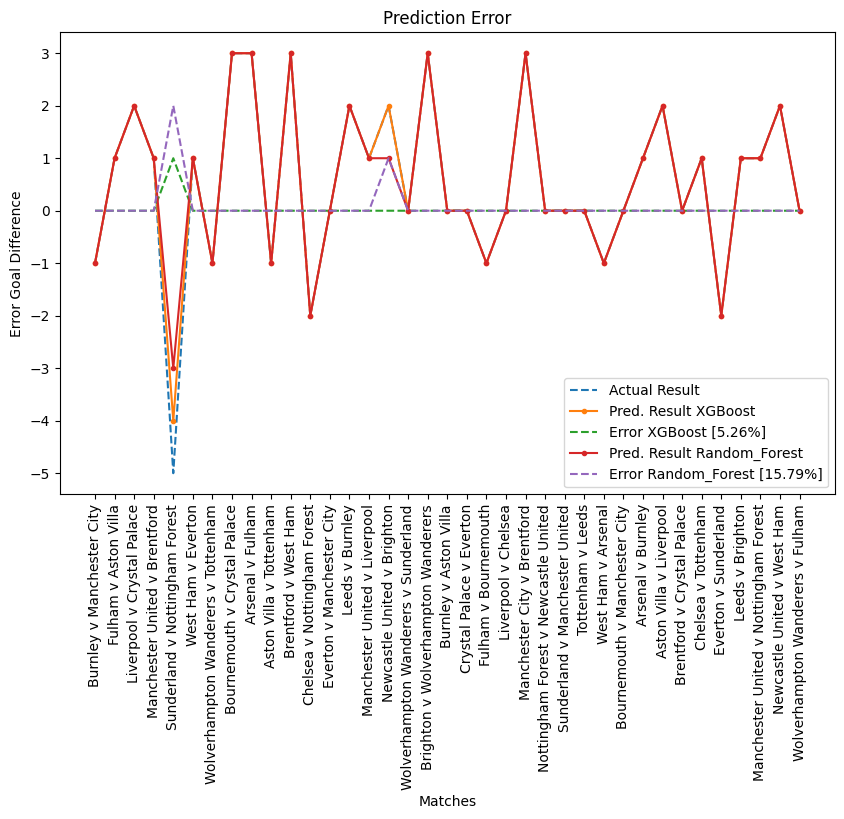
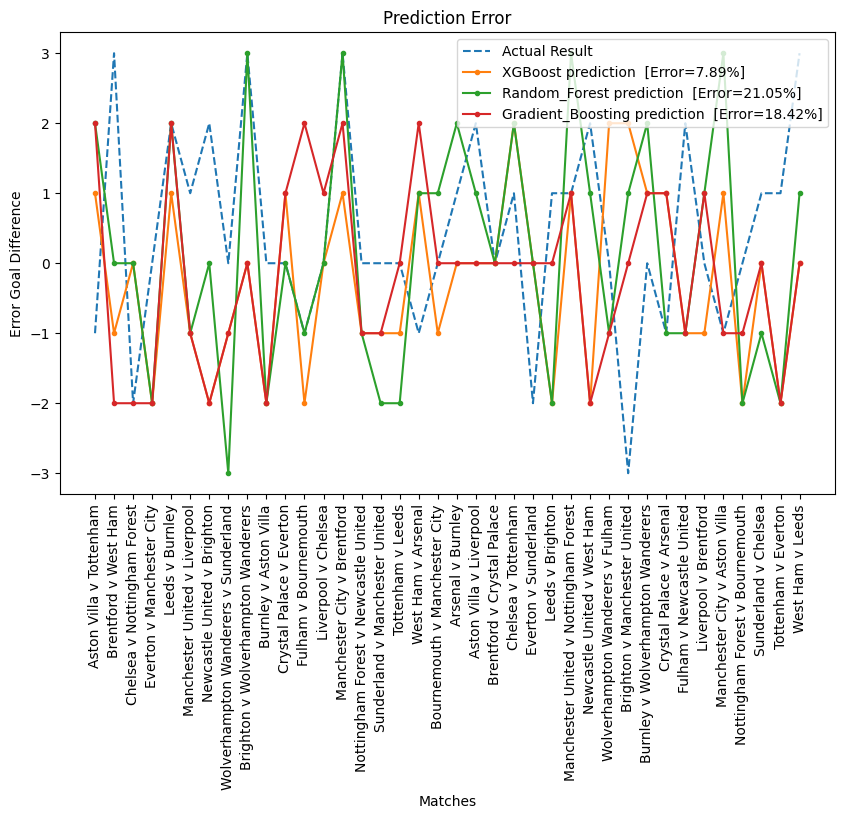
Update the description of EPL prediction projectData

Changed region(s): [[0.0924, 0.0305, 0.9858, 0.9768], [0.0308, 0.4884, 0.0616, 0.5189], [0.0308, 0.3053, 0.0616, 0.3358]]

diff --git a/public/projectData.js b/public/projectData.js
@@ -4,10 +4,10 @@ export const ProjectData = [
     title:
     "EPL Soccer Match Predictor",
     description:
-    "A machine learning model that predicts the outcome of EPL soccer matches using historical data and various engineered features focused heavily on game state xG and shots data throughout the match. The XGBoost model was found to be the most accurate with an accuracy of over 94%.",
+    "A machine learning model that predicts the outcome of EPL soccer matches using historical data (detailed match data from the Premier League 2025-2026 season) and various engineered features focused heavily on game state xG and shots data throughout the match. The XGBoost model was found to be the most accurate with an accuracy of over 92%.",
     link: "https://github.com/sagara92/GameStatexG_Soccer_Predictor",
     image: "EPL_prediction_result.png",
-    tech: ["Machine Learning", "Python", "XGBoost", "Random Forest", "Exploratory Data Analysis", "Data Visualization"]
+    tech: ["Machine Learning", "Python", "XGBoost", "Random Forest", "Gradient Boosting", "Exploratory Data Analysis", "Data Visualization"]
   },{
     id: 12,
     title: